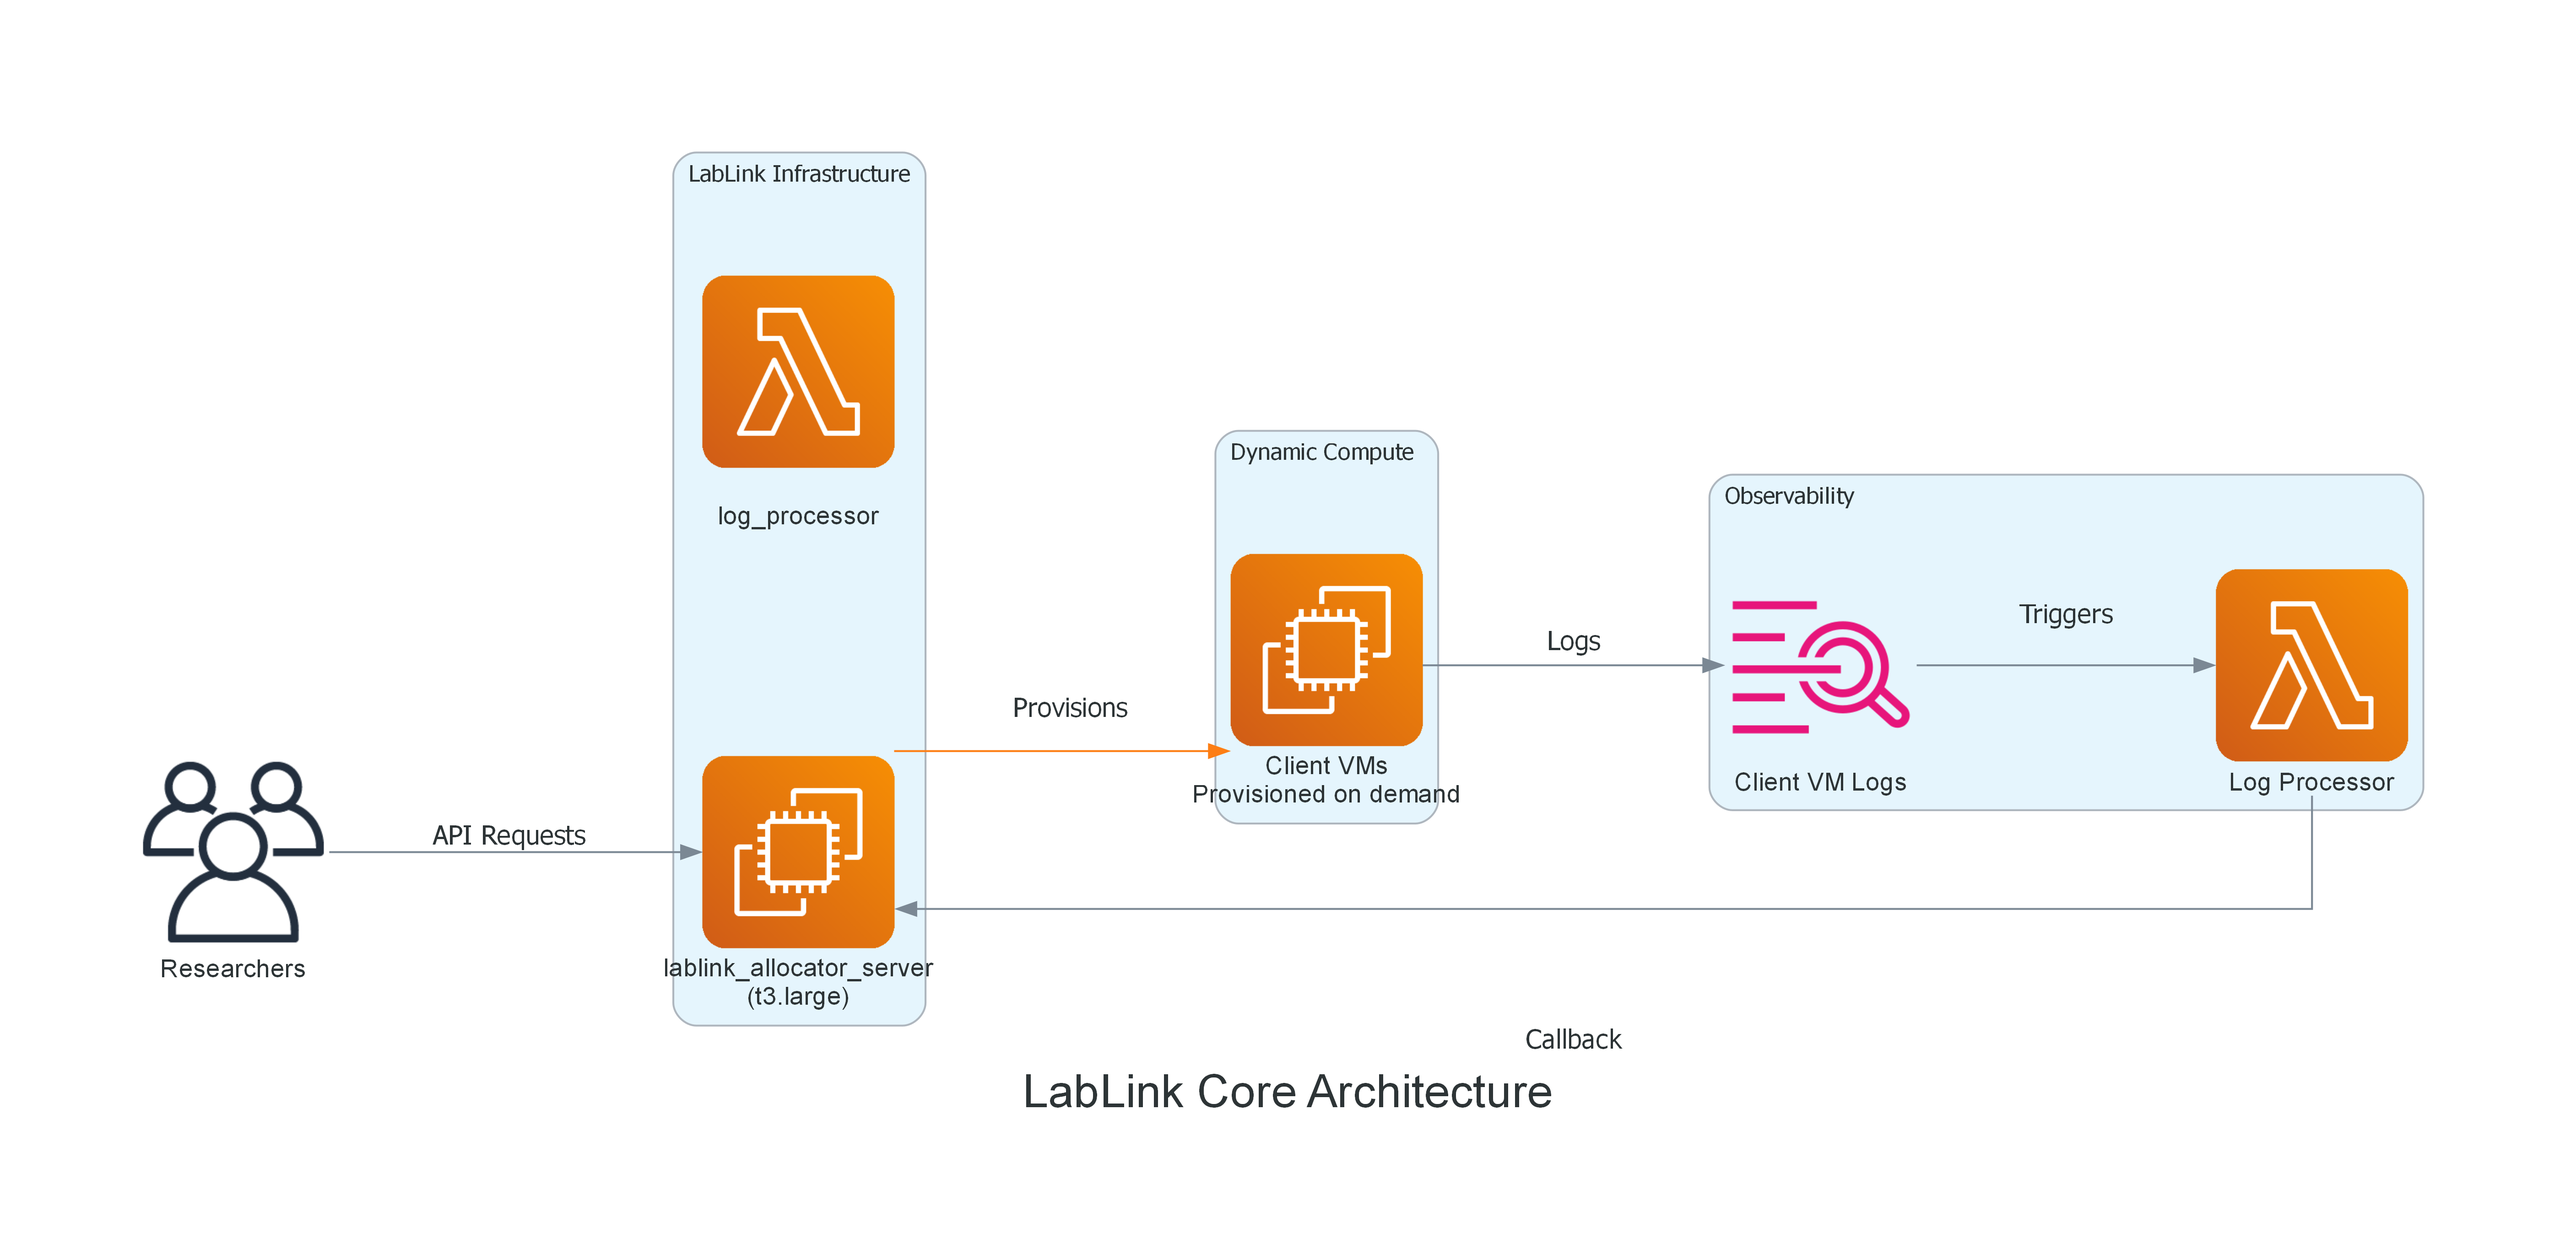
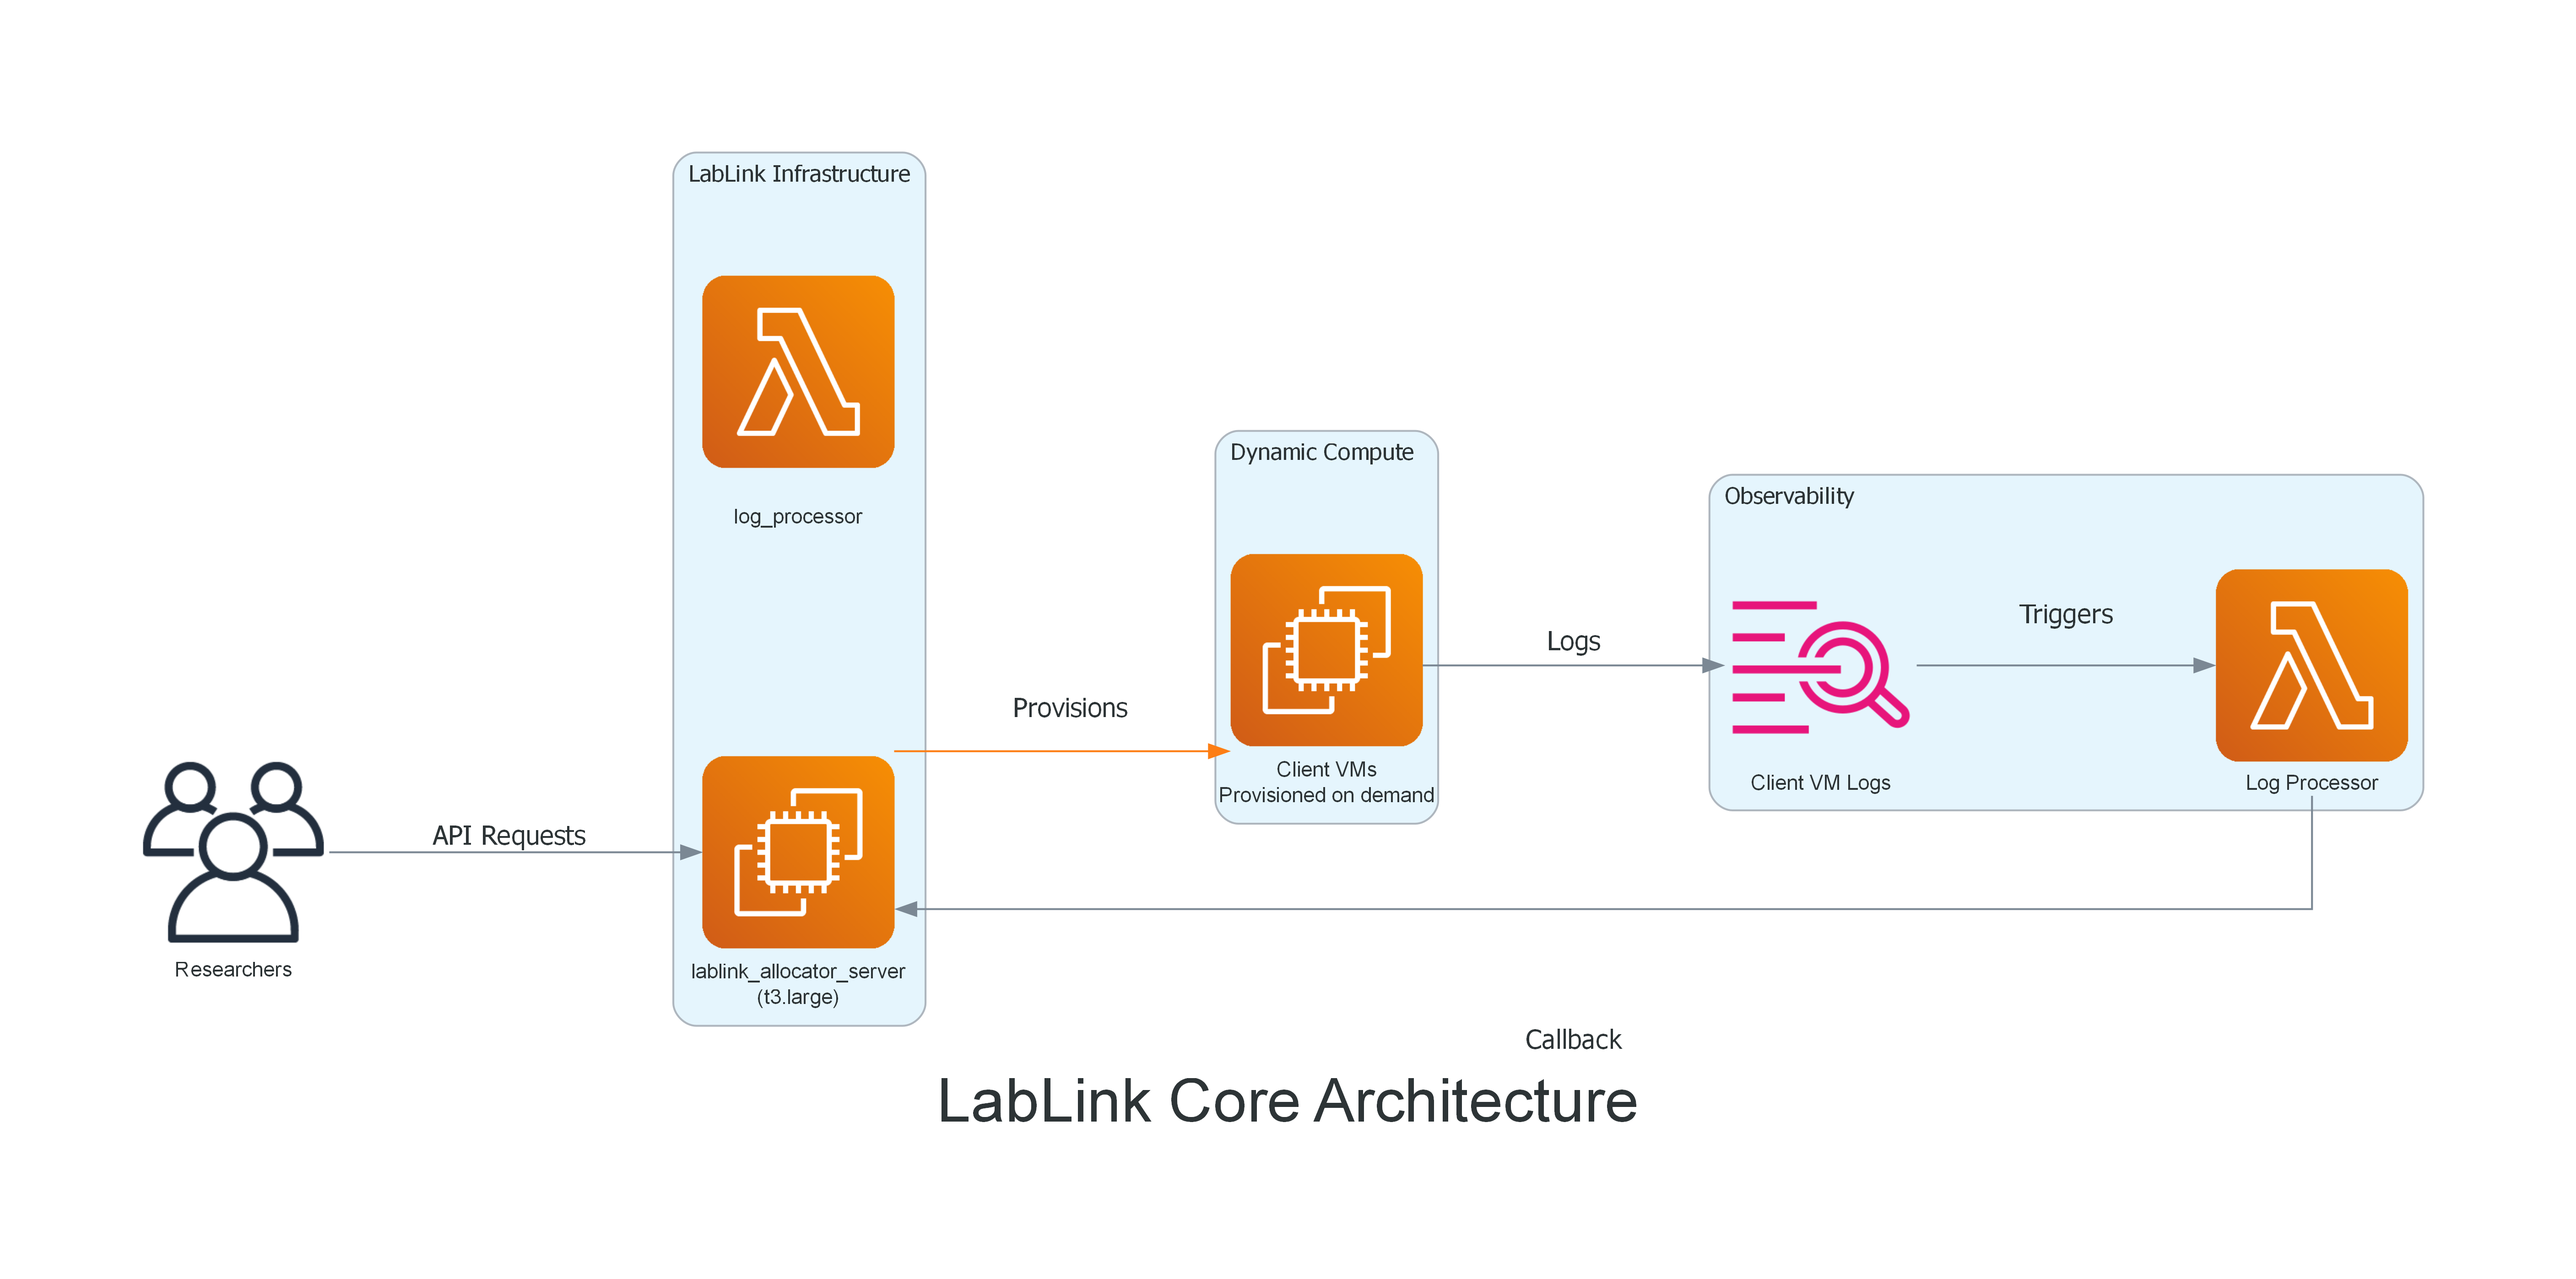
Increase cluster name font size to make hierarchy clear
User feedback: Cluster names need to be much larger than resource text.

Changes:
- Cluster names (graph_attr fontsize): 24 → 32pt
- Node text (node_attr fontsize): 13 → 11pt
- Edge labels (edge_attr fontsize): 14 → 12pt

This creates clear visual hierarchy:
- Blue box titles (clusters) are now prominently larger
- Resource names are smaller, subordinate to their cluster
- Overall diagram is cleaner and easier to scan

🤖 Generated with [Claude Code](https://claude.com/claude-code)

diff --git a/src/diagram_gen/generator.py b/src/diagram_gen/generator.py
@@ -161,7 +161,7 @@ class LabLinkDiagramBuilder:
             dpi: DPI for PNG output
         """
         graph_attr = {
-            "fontsize": "24",  # Larger cluster names
+            "fontsize": "32",  # Much larger cluster names
             "fontname": "Helvetica",  # Not bold
             "bgcolor": "white",
             "dpi": str(dpi),
@@ -171,12 +171,12 @@ class LabLinkDiagramBuilder:
         }
 
         edge_attr = {
-            "fontsize": "14",
+            "fontsize": "12",
             "fontname": "Helvetica",
         }
 
         node_attr = {
-            "fontsize": "13",
+            "fontsize": "11",  # Smaller node text so clusters stand out
             "fontname": "Helvetica",
         }
 
